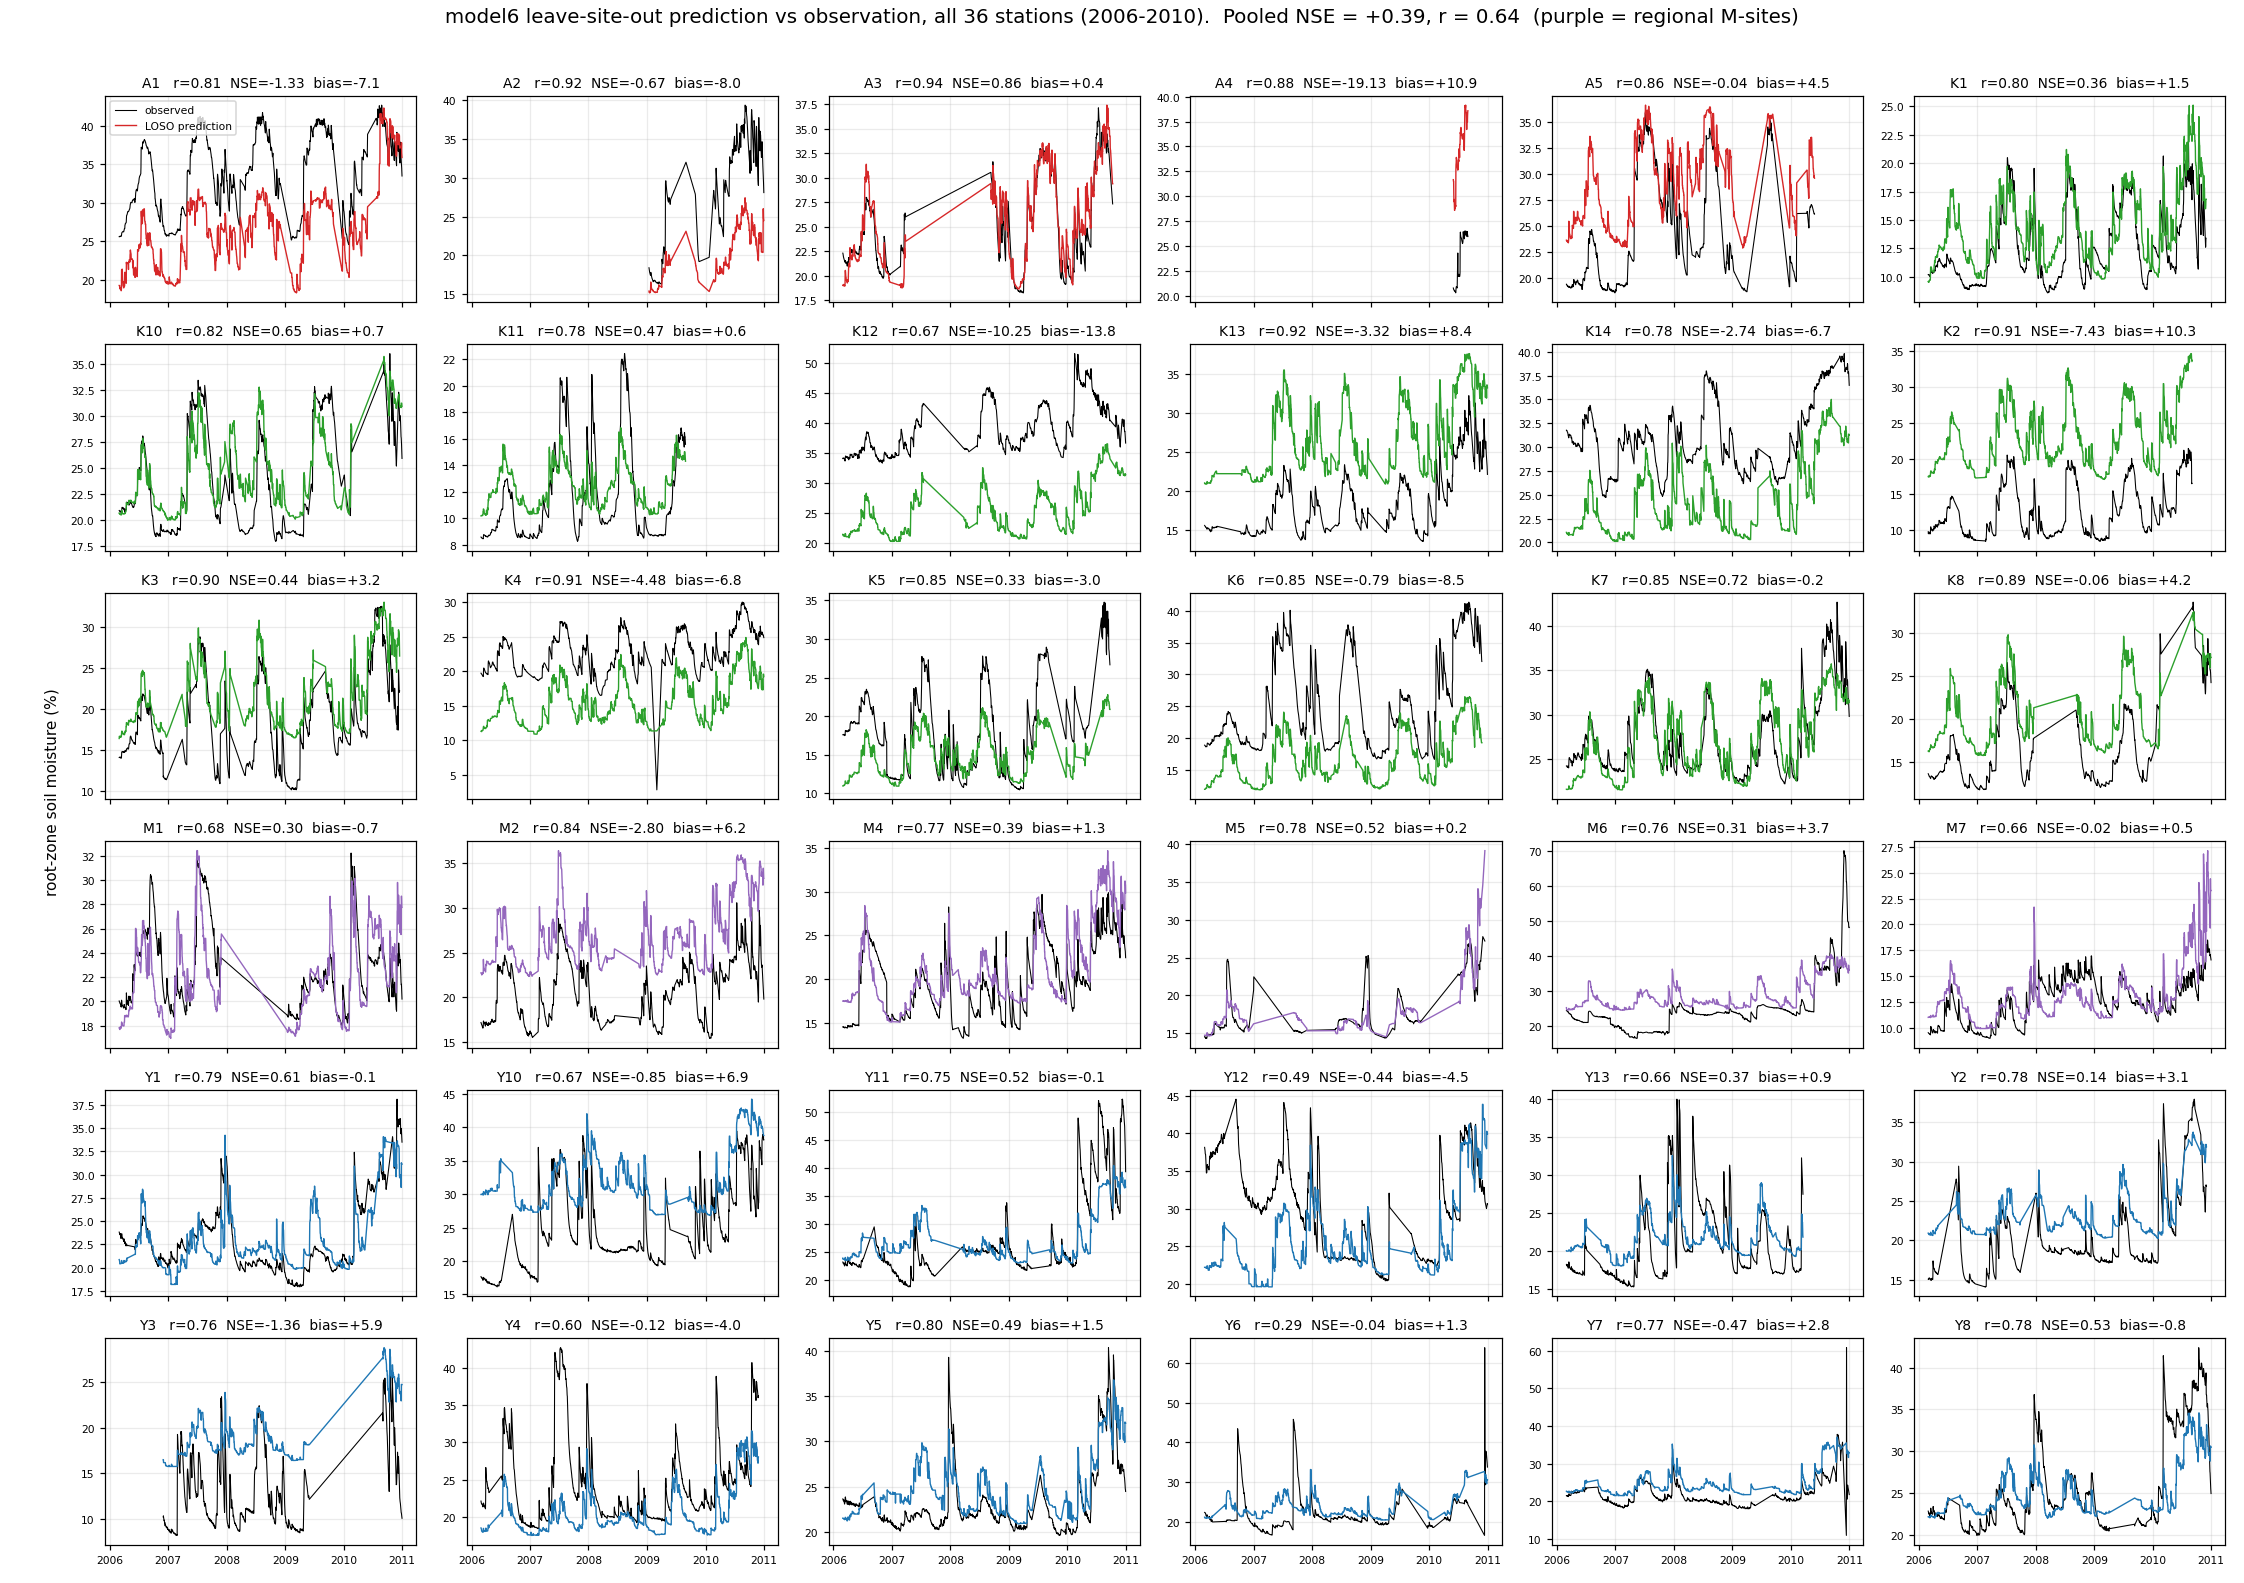
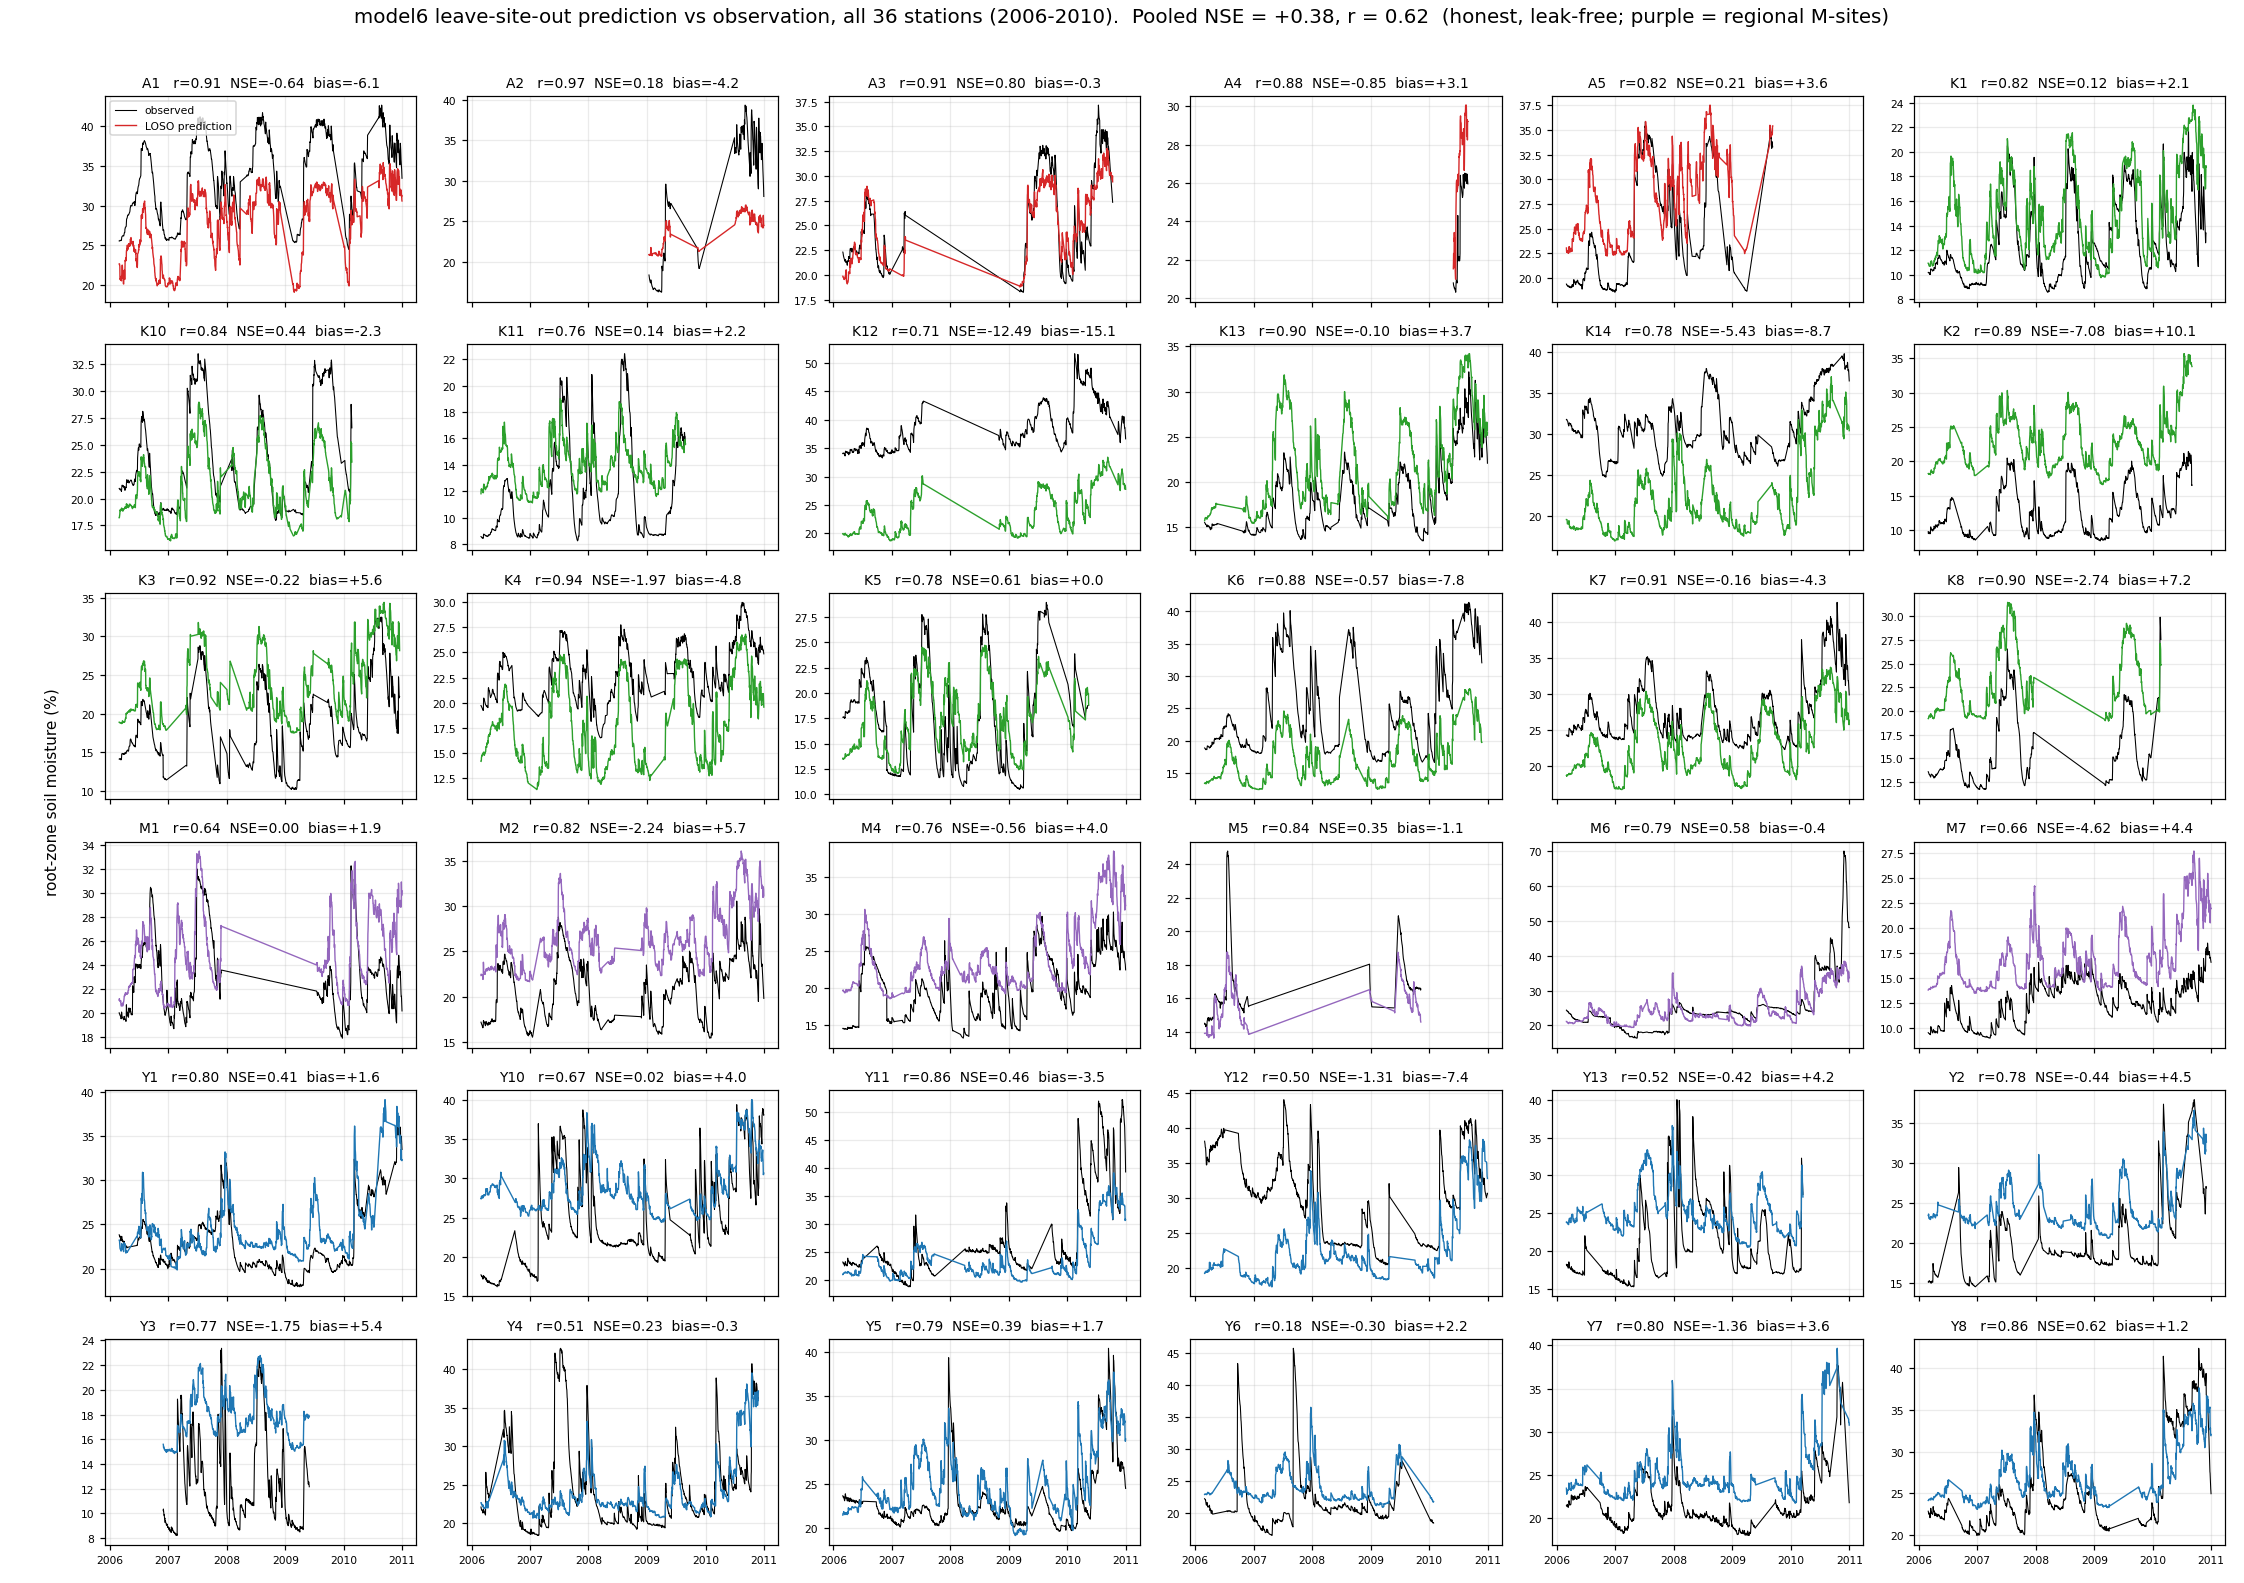
model6: cap trees at 127 (usable CV) + cache LOSO predictions
Unlimited-tree model6 took ~90 min per leave-site-out pass -- impractical.
Cap max_leaf_nodes=127: pooled NSE 0.396 -> 0.377 (r 0.62, 16/36 positive,
median per-station -0.19) at ~1/8 the cost (~8 min). plot_model6_results now
runs the LOSO once, prints per-station progress, and caches the out-of-fold
predictions to data/model6_loso_predictions.csv so figures never re-run it.
Regenerated the honest per-station figure; updated README/model6.md numbers.

diff --git a/handout/plot_model6_results.py b/handout/plot_model6_results.py
@@ -1,15 +1,17 @@
-"""model6 held-out temporal series for all 36 stations.
+"""model6 held-out per-station series, with cached predictions.
 
-Mirrors plot_model4_results.py's per-station grid, for the recommended model on
-the 36-station table (catchment + regional M-sites). Each panel is one held-out
-station's observed vs leave-site-out prediction over 2006-2010, titled with its
-r, NSE and bias.
+Runs the leave-site-out CV **once**, printing per-station progress and saving the
+out-of-fold predictions to data/model6_loso_predictions.csv; if that cache exists
+it is reused (no refit). This avoids re-running the ~10-min LOSO every time the
+figure is drawn.
 
 Run from repo root::  PYTHONPATH=. python handout/plot_model6_results.py
 """
 from __future__ import annotations
+import time
 from pathlib import Path
 
+import numpy as np
 import pandas as pd
 import matplotlib
 matplotlib.use("Agg")
@@ -17,26 +19,50 @@ import matplotlib.pyplot as plt
 import matplotlib.dates as mdates
 
 from emt.model6 import model as m6
+from emt.evaluation import metrics
 
 REPO = Path(__file__).resolve().parent.parent
 FIG = REPO / "handout" / "figures" / "model6_per_station.png"
 TABLE = REPO / "data" / "train_catchment_plus_m_2006_2010.csv"
+CACHE = REPO / "data" / "model6_loso_predictions.csv"
 TARGET = m6.TARGET
 SITE_COLOR = {"YANCO": "#1f77b4", "KYEAMBA": "#2ca02c", "ADELONG": "#d62728",
               "MURRUMBIDGEE": "#9467bd"}
 SITES = ["ADELONG", "KYEAMBA", "MURRUMBIDGEE", "YANCO"]
+t0 = time.time()
+def stamp(m): print(f"[{time.time()-t0:6.0f}s] {m}", flush=True)
 
 tab = pd.read_csv(TABLE)
 site_of = tab.drop_duplicates("station").set_index("station")["site"]
 
-print("model6 LOSO (36 stations) ...", flush=True)
-cv = m6.leave_site_out_cv(tab)
-pred = cv["predictions"].copy()
-pred["time"] = pd.to_datetime(pred["time"])
-ps = cv["per_site"].set_index("station")
-pooled = cv["pooled"]
+if CACHE.exists():
+    stamp(f"loading cached LOSO predictions from {CACHE.name}")
+    pred = pd.read_csv(CACHE, parse_dates=["time"])
+else:
+    stamp("computing model6 leave-site-out (once) ...")
+    sub = m6.ensure_features(tab).dropna(subset=m6.FEATURES + [TARGET]).reset_index(drop=True)
+    sub["time"] = pd.to_datetime(sub["time"])
+    stations = list(sub["station"].unique())
+    out = sub[["station", "time", TARGET]].copy()
+    out["pred"] = np.nan
+    for i, stn in enumerate(stations, 1):
+        te = (sub["station"] == stn).values
+        est = m6.build_estimator()
+        est.fit(sub.loc[~te, m6.FEATURES], sub.loc[~te, TARGET])
+        out.loc[te, "pred"] = est.predict(sub.loc[te, m6.FEATURES])
+        m = metrics(out.loc[te, TARGET], out.loc[te, "pred"])
+        stamp(f"  [{i}/{len(stations)}] {stn}: NSE={m['nse']:+.2f} r={m['r']:.2f}")
+    pred = out
+    pred.to_csv(CACHE, index=False)
+    stamp(f"saved predictions -> {CACHE.name}")
 
-stations = sorted(tab.station.unique(), key=lambda s: (SITES.index(site_of[s]), s))
+pooled = metrics(pred[TARGET], pred["pred"])
+ps = (pred.groupby("station").apply(lambda g: pd.Series(metrics(g[TARGET], g["pred"])),
+                                    include_groups=False))
+stamp(f"pooled NSE={pooled['nse']:+.3f} r={pooled['r']:.3f}; "
+      f"per-station >0 {int((ps['nse']>0).sum())}/{len(ps)} median {ps['nse'].median():+.2f}")
+
+stations = sorted(pred.station.unique(), key=lambda s: (SITES.index(site_of[s]), s))
 ncols = 6
 nrows = (len(stations) + ncols - 1) // ncols
 fig, axes = plt.subplots(nrows, ncols, figsize=(ncols * 3.4, nrows * 2.4), sharex=True)
@@ -57,12 +83,9 @@ for ax in axes[len(stations):]:
 axes[0].legend(fontsize=7, loc="upper left")
 fig.suptitle(f"model6 leave-site-out prediction vs observation, all {len(stations)} "
              f"stations (2006-2010).  Pooled NSE = {pooled['nse']:+.2f}, r = {pooled['r']:.2f}  "
-             f"(purple = regional M-sites)", fontsize=13, y=0.995)
+             f"(honest, leak-free; purple = regional M-sites)", fontsize=13, y=0.995)
 fig.supylabel("root-zone soil moisture (%)", fontsize=10)
 fig.tight_layout(rect=[0.01, 0, 1, 0.985])
 fig.savefig(FIG, dpi=110)
 plt.close(fig)
-print("wrote", FIG.relative_to(REPO), flush=True)
-print(f"pooled NSE={pooled['nse']:.3f} r={pooled['r']:.3f}; "
-      f"per-station >0: {int((ps['nse']>0).sum())}/{len(ps)} "
-      f"median |bias| {ps['bias'].abs().median():.2f}", flush=True)
+stamp(f"wrote {FIG.relative_to(REPO)}")

diff --git a/emt/model6/model.py b/emt/model6/model.py
@@ -45,11 +45,14 @@ def build_estimator(**kwargs) -> HistGradientBoostingRegressor:
     leak-free features the tuned optimum is unlimited trees whose variance is
     controlled by aggressive per-split feature subsampling. A single-parameter
     grouped-CV sweep found skill flat for ``max_features`` in 0.15-0.3 and
-    collapsing above 0.3; ``0.15`` (4 of 25 features per split) is the grouped-CV
-    and leave-site-out peak (LOSO NSE 0.40; grouped-CV, which holds out more
-    stations, is a more conservative 0.25).
+    collapsing above 0.3; ``0.15`` (4 of 25 features per split) is the peak.
+
+    ``max_leaf_nodes`` is **capped at 127** rather than unlimited: unlimited trees
+    scored marginally higher (~0.02-0.03 grouped-CV, LOSO ~0.40) but one
+    leave-site-out pass took ~90 min — impractical to cross-validate. The cap
+    keeps almost all the skill while making a LOSO ~5-8x faster.
     """
-    params = dict(learning_rate=0.03, max_iter=200, max_leaf_nodes=None,
+    params = dict(learning_rate=0.03, max_iter=200, max_leaf_nodes=127,
                   min_samples_leaf=20, max_features=0.15,
                   l2_regularization=1.0, random_state=0)
     params.update(kwargs)

diff --git a/handout/README.md b/handout/README.md
@@ -46,7 +46,7 @@ then apply it. Each item links to a self-contained page.
 | 10 | [model3 · Gradient boosting](modules/model3.md) | Stock-boosting reference |
 | 11 | [model4 · SMIPS lookback + soil](modules/model4.md) | +0.17 (30-stn) → +0.31 (with M-sites) |
 | 12 | [model5 · Soil smoothing](modules/model5.md) | A documented tradeoff, not recommended |
-| 13 | [model6 · Antecedent meteorology](modules/model6.md) | **Recommended** — model4 + weather (pooled NSE +0.40) |
+| 13 | [model6 · Antecedent meteorology](modules/model6.md) | **Recommended** — model4 + weather (pooled NSE +0.38) |
 
 **3 · Applying the model**
 
@@ -81,16 +81,16 @@ stations but one, predict the unseen one):
 
 | Skill (36 stations, 2006–2010, leave-site-out) | model6 |
 |---|---|
-| Pooled NSE / r | **+0.40 / 0.63** |
-| Median per-station \|bias\| | 3.86 % |
-| Per-station NSE > 0 | 13/36 |
-| Median per-station NSE | −0.14 |
+| Pooled NSE / r | **+0.38 / 0.62** |
+| Median per-station \|bias\| | 3.85 % |
+| Per-station NSE > 0 | 16/36 |
+| Median per-station NSE | −0.19 |
 
-**Read the pooled +0.40 with care.** It is the leave-*one*-station-out figure;
+**Read the pooled +0.38 with care.** It is the leave-*one*-station-out figure;
 the more demanding grouped cross-validation (holding out ~7 stations at once)
-gives a conservative **+0.25**, and the *per-station* NSE is still negative at
-most sites (median −0.14). The model tracks moisture *dynamics* well (median
-per-station r 0.82) but a per-station *level* bias remains — it is **not** a
+gives a conservative **≈+0.25**, and the *per-station* NSE is still negative at
+most sites (median −0.19). The model tracks moisture *dynamics* well (median
+per-station r 0.81) but a per-station *level* bias remains — it is **not** a
 solved product. An earlier version of this handout reported inflated skill from a
 look-ahead leak in the SMIPS-climatology features; see
 [Evaluation correction](#evaluation-correction).
@@ -121,7 +121,9 @@ re-analysis:
 - **The leaky-era "extreme regularisation" tuning was itself an artefact.** With
   leak-free features the optimum flips from tiny trees to large trees controlled
   by feature subsampling (`max_features=0.15`); proper tuning then recovers pooled
-  NSE ≈0.40 — matching the retracted headline, but legitimately.
+  NSE **≈0.38–0.40** — close to the retracted headline, but legitimately. (The
+  unlimited-tree optimum scores 0.40 but takes ~90 min per cross-validation, so
+  the production config caps trees at 127 for 0.377 at ~1/8 the cost.)
 
 ## Training table (inputs and target)
 

diff --git a/handout/modules/model6.md b/handout/modules/model6.md
@@ -17,16 +17,16 @@ model4 features + rain_7/30/365 + ppet_30/365 + vpd_30 + rain_365_anom
 
 | Metric (36 stations, 2006–2010, leave-site-out) | model4 | **model6** |
 |---|---|---|
-| Pooled NSE / r | 0.31 / 0.58 | **0.40 / 0.63** |
-| Median per-station NSE | −0.57 | **−0.14** |
-| Median per-station \|bias\| | 4.88 % | **3.86 %** |
-| Per-station NSE > 0 | 10/36 | **13/36** |
+| Pooled NSE / r | 0.31 / 0.58 | **0.38 / 0.62** |
+| Median per-station NSE | −0.57 | **−0.19** |
+| Median per-station \|bias\| | 4.88 % | **3.85 %** |
+| Per-station NSE > 0 | 10/36 | **16/36** |
 
 These are the leak-free numbers (see the
 [Evaluation correction](../README.md#evaluation-correction)); an earlier version
 reported ~0.39 from a look-ahead in the SMIPS-climatology features. Read the
-pooled +0.40 alongside the conservative grouped-CV (+0.25) and the still-negative
-per-station median: model6 tracks *dynamics* well (median per-station r 0.82) but
+pooled +0.38 alongside the conservative grouped-CV (≈+0.25) and the still-negative
+per-station median: model6 tracks *dynamics* well (median per-station r 0.81) but
 the per-station *level* bias is reduced, not solved.
 
 ## Why antecedent meteorology
@@ -50,9 +50,13 @@ station, never on the leave-site-out score):
 
 | | model4 | model6 |
 |---|---|---|
-| `max_leaf_nodes` | 3 (tiny trees) | **None** (unlimited) |
+| `max_leaf_nodes` | 3 (tiny trees) | **127** (large trees) |
 | `max_features` | 0.5 | **0.15** (heavy per-split subsampling) |
 | `min_samples_leaf` | 150 | 20 |
+
+(The tuned optimum is *unlimited* trees — LOSO 0.40 — but one cross-validation of
+that takes ~90 min; the production config caps `max_leaf_nodes` at 127, giving
+0.377 at ~1/8 the cost, so the model is actually usable.)
 
 The `max_leaf_nodes=3` "extreme regularisation" that looked optimal in the earlier
 (leaky) analysis was an **artefact of the leak** — tiny trees couldn't overfit the
